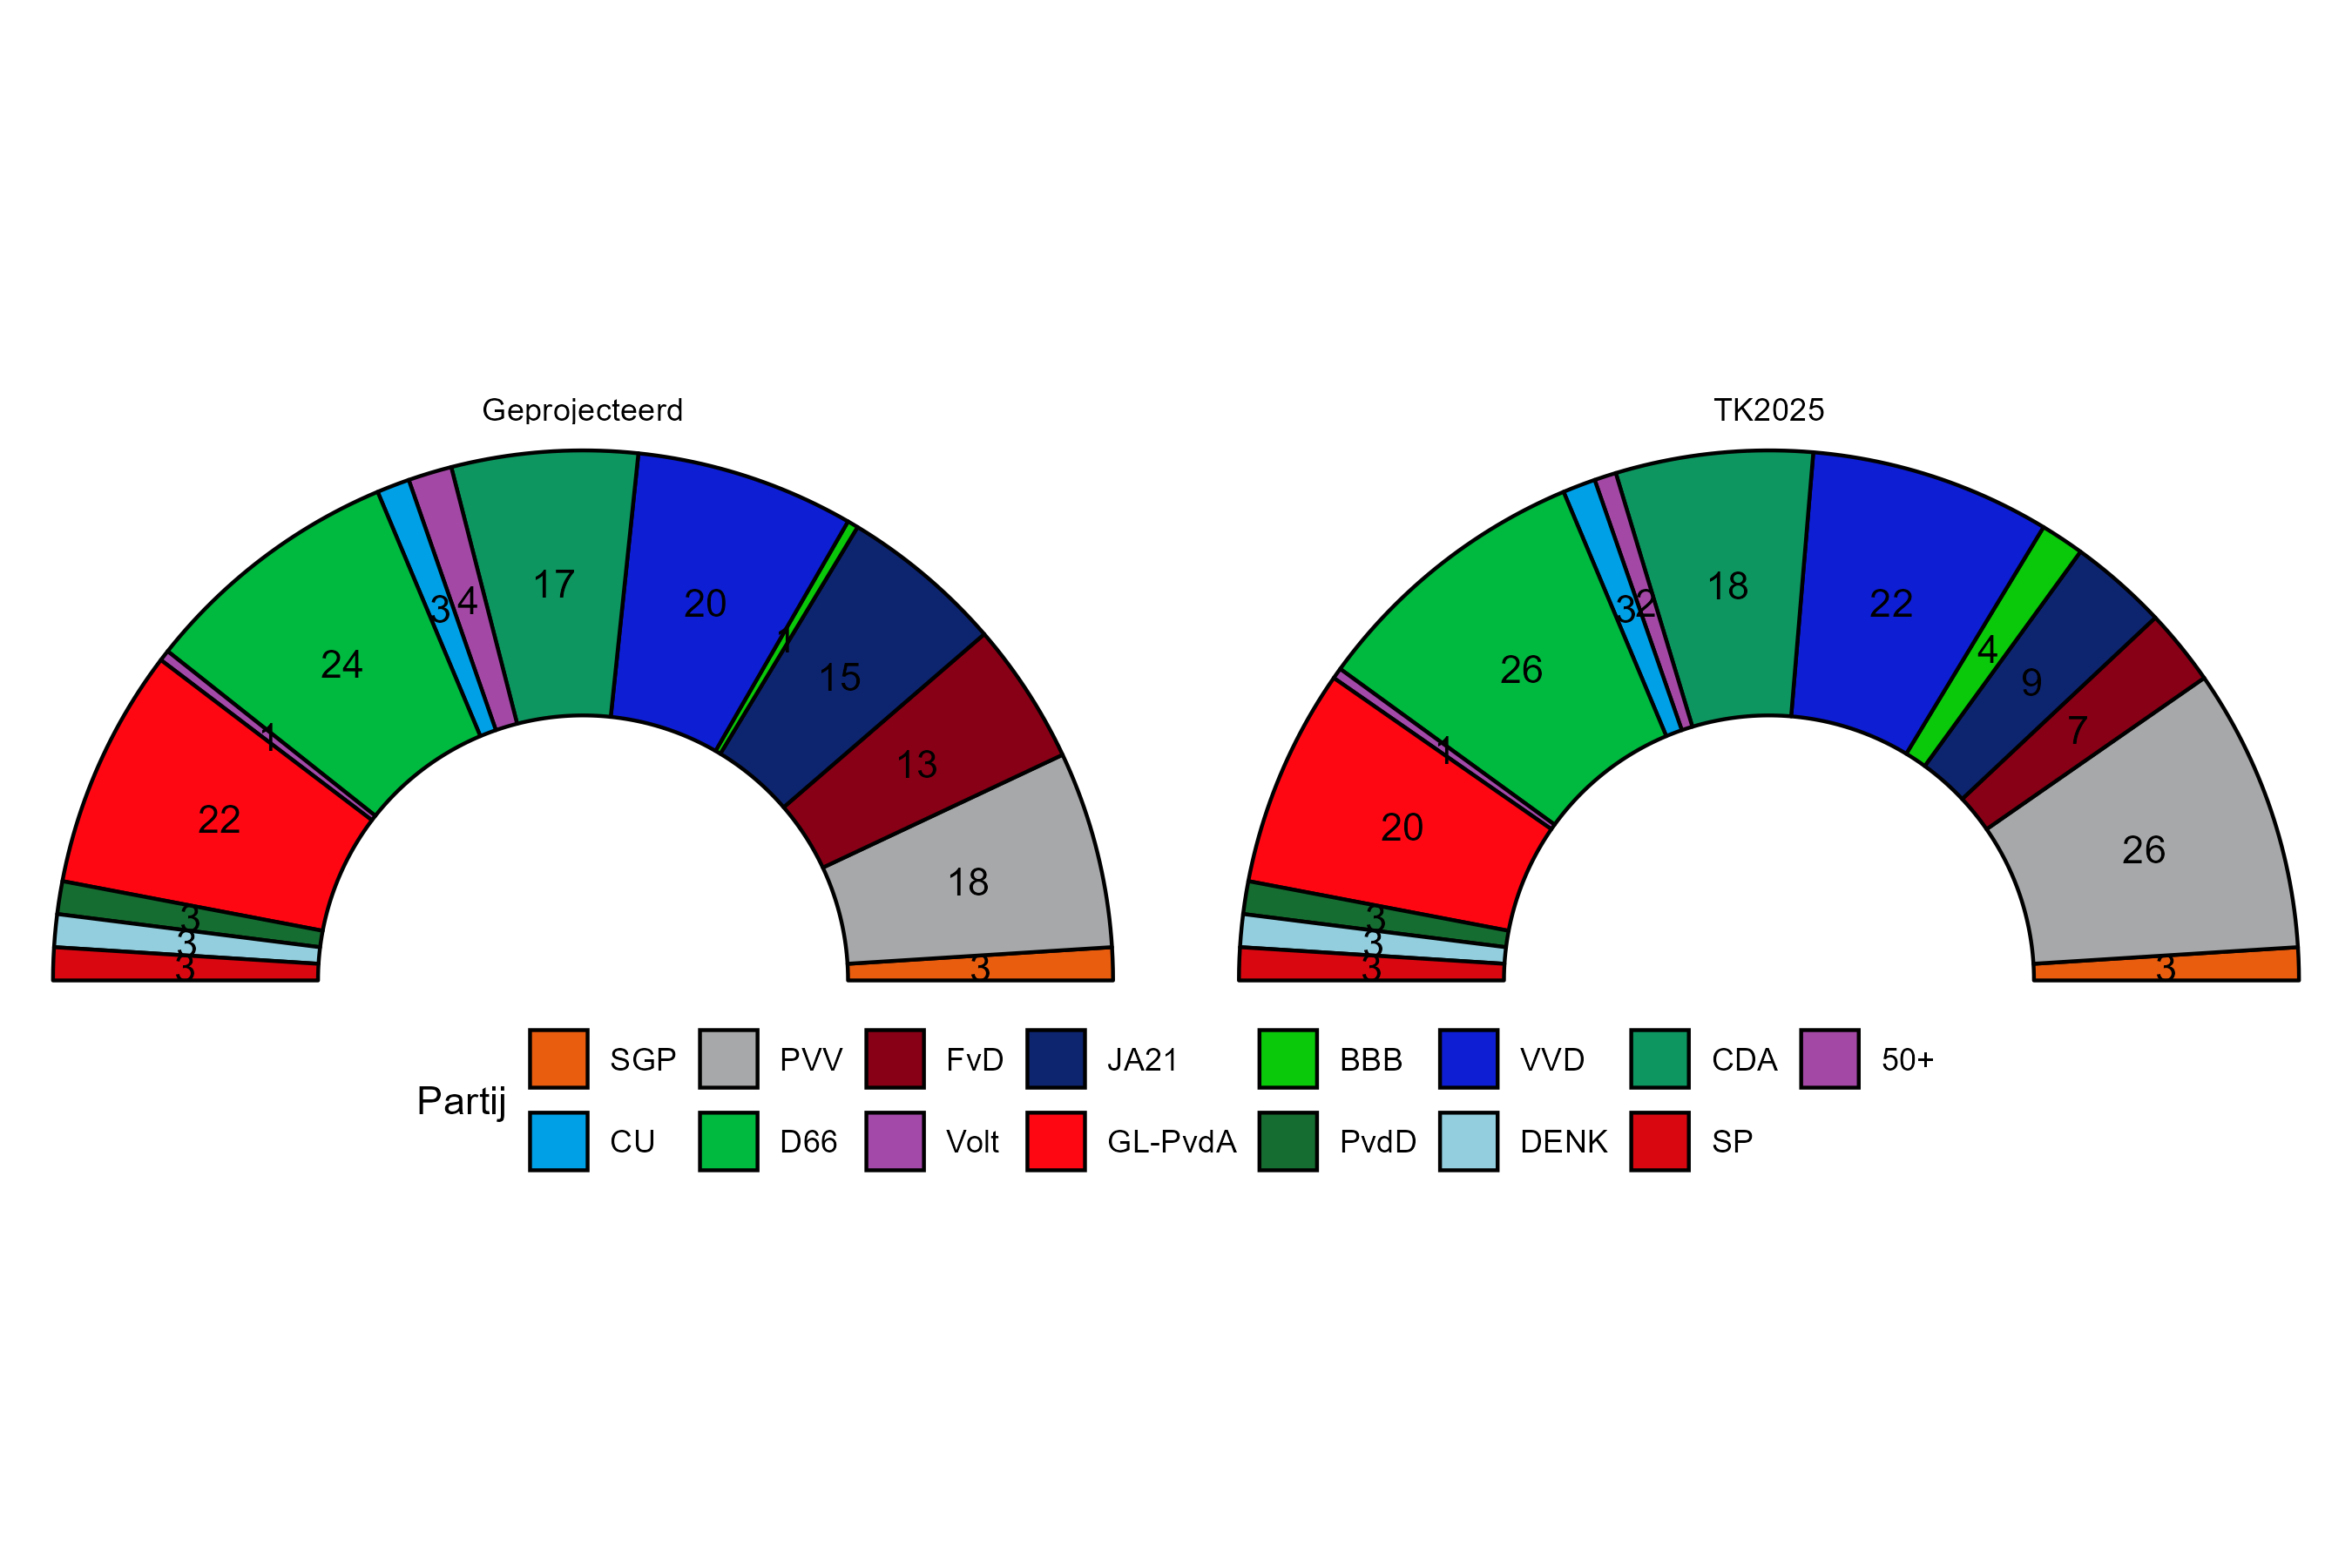
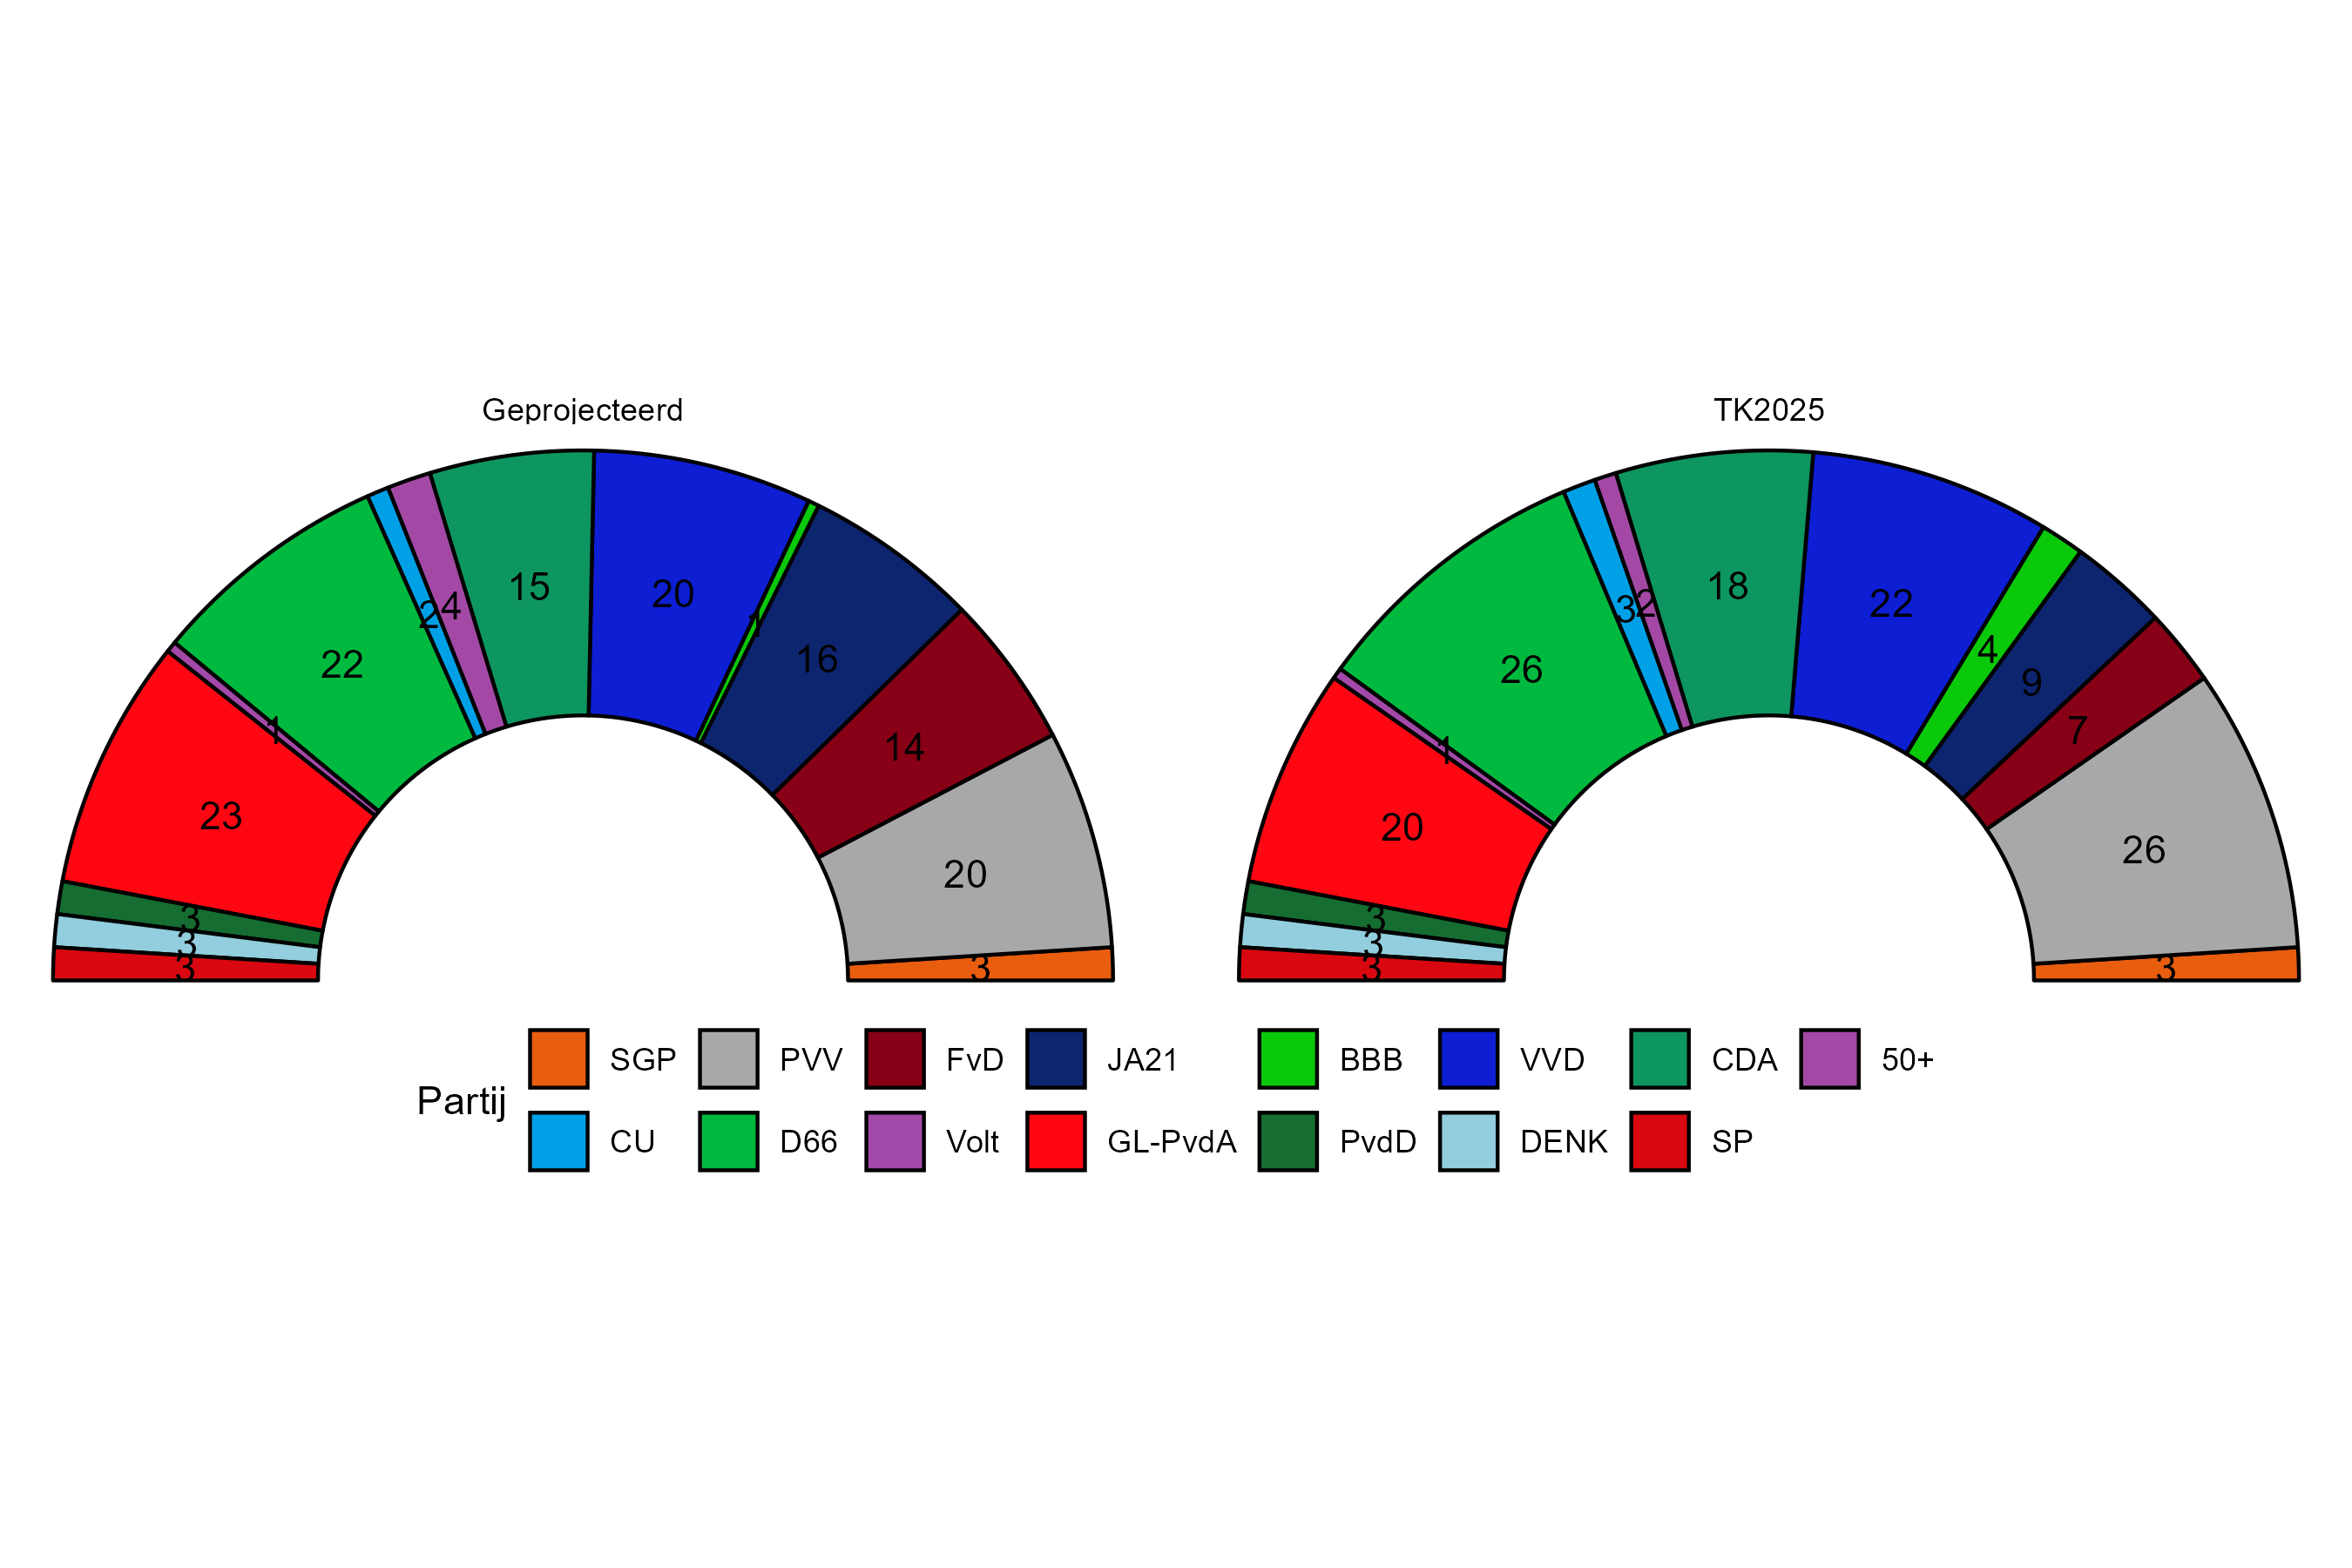
May 2026 NL

diff --git a/nederland.html b/nederland.html
@@ -28,7 +28,7 @@
     <div class="column">
 
         <h1>Netherlands</h1>
-	<p><i>Last Updated: 12 April 2026</i></p>
+	<p><i>Last Updated: 10 May 2026</i></p>
 
 
 	<h2> Party Support over last 24 Months</h2>